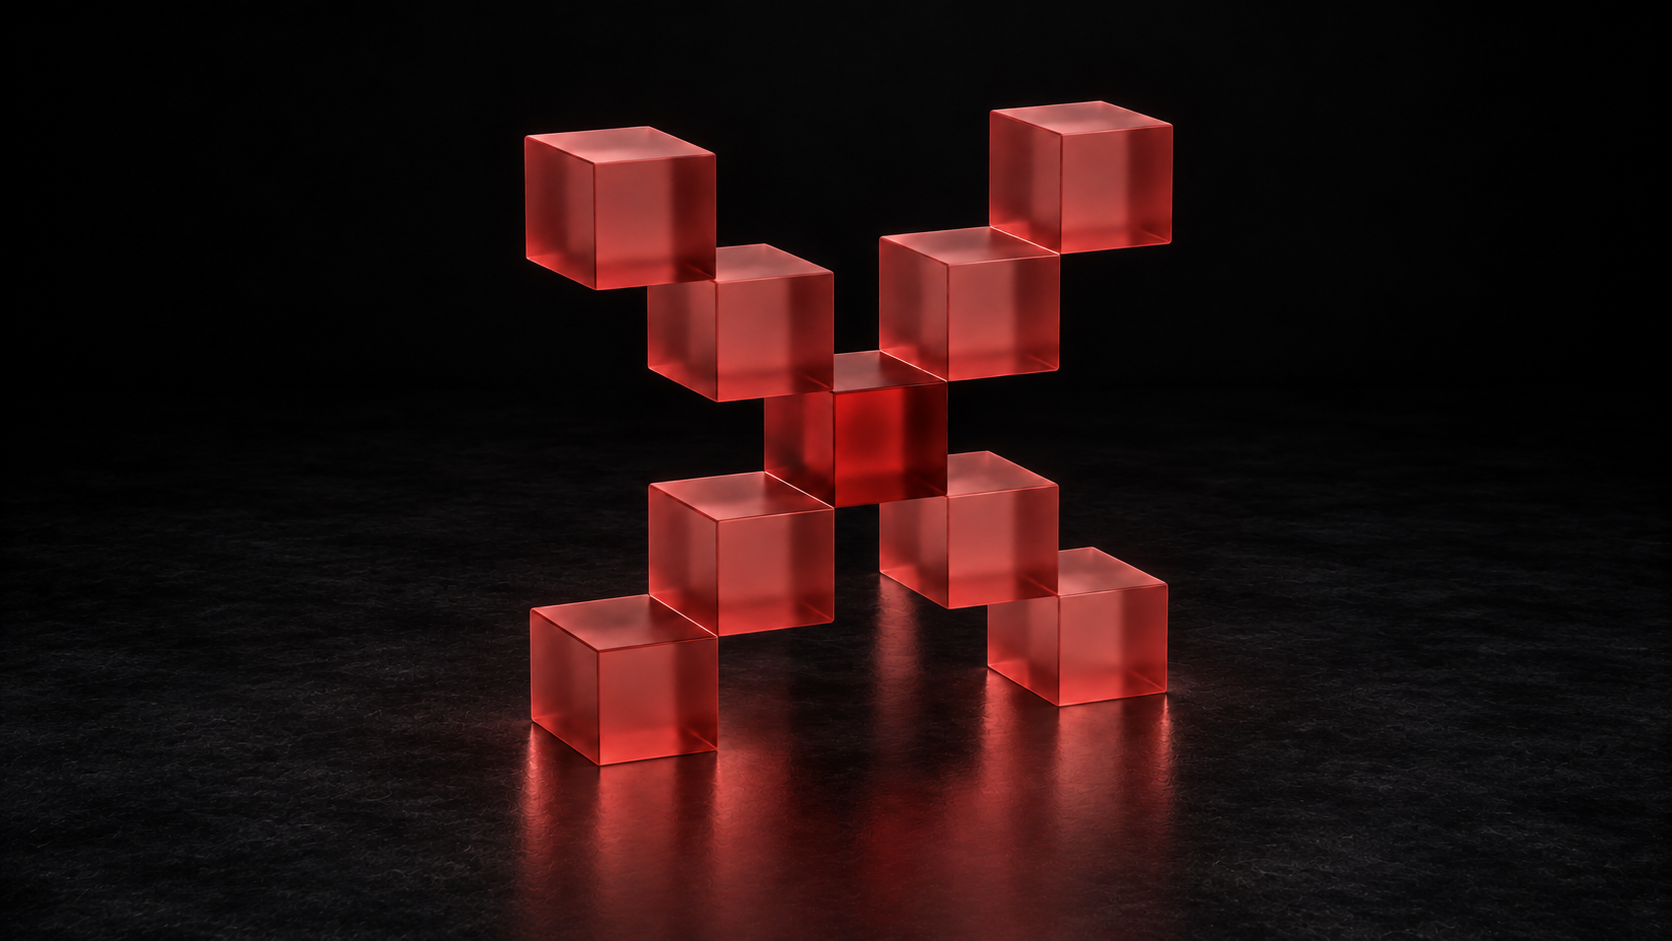
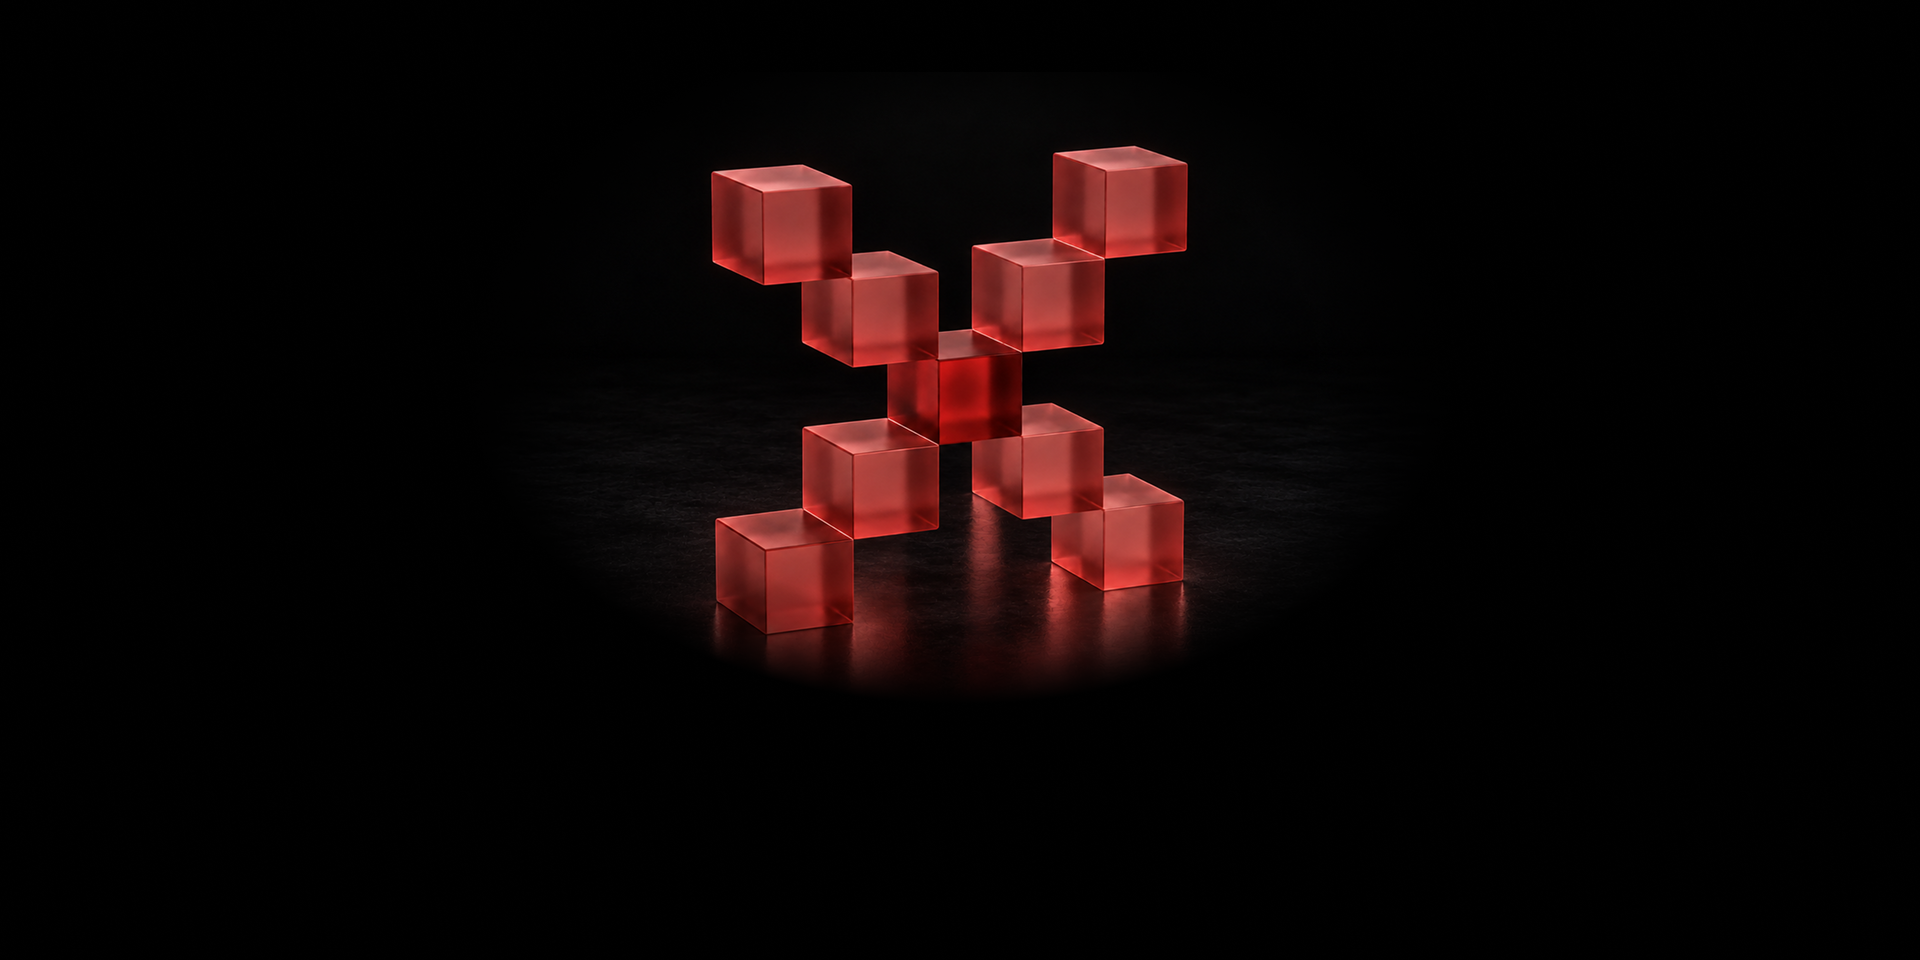
Update popup result backgrounds and responsive section layouts

diff --git a/src/scss/components/_popup-result.scss b/src/scss/components/_popup-result.scss
@@ -1,6 +1,7 @@
 @use "../abstracts/variables" as *;
 
 .popup {
+
     .form[hidden],
     .popup-result[hidden] {
         display: none;
@@ -29,176 +30,61 @@
 .popup-result {
     position: absolute;
     inset: 0;
-    min-height: 54rem;
     overflow: hidden;
     background-color: $black;
     color: $white;
 
+    // .popup-result__background
     &__background {
         position: absolute;
         inset: 0;
         pointer-events: none;
 
         picture,
-        picture img {
+        img {
             display: block;
             width: 100%;
             height: 100%;
-        }
-
-        picture img {
-            object-fit: fill;
-            max-width: none;
-        }
-
-        &::after {
-            content: '';
-            position: absolute;
-            inset: 0;
-            background: radial-gradient(ellipse 39.6% 35% at 50% 33.75%, transparent 67.67%, $black 100%);
+            object-fit: cover;
+            object-position: center;
         }
     }
 
-    &__tablet-overlay {
-        display: none;
-    }
-
+    // .popup-result__content
     &__content {
-        position: absolute;
-        inset-inline: 1.6rem;
-        bottom: 12rem;
+        padding-bottom: 12rem;
         display: flex;
         flex-direction: column;
         align-items: center;
-        gap: 4rem;
         text-align: center;
-        outline: none;
+        justify-content: flex-end;
+        height: 100%;
+        position: relative;
+        z-index: 1;
+
+        @media (max-width:1280px) {
+            padding-bottom: 8rem;
+        }
+
+        @media (max-width:1024px) {
+            padding-bottom: 24rem;
+        }
+
+        @media (max-width:767px) {
+            padding-bottom: 12rem;
+        }
 
         p {
             color: $white-60;
-            margin-top: -2.4rem;
-        }
-    }
-
-    &--error &__background {
-        picture img {
-            position: absolute;
-            width: 63.95%;
-            height: 71.98%;
-            top: 7.5%;
-            left: 16.99%;
+            margin-top: 1.6rem;
         }
 
-        &::after {
-            background: radial-gradient(ellipse 28.72% 38.96% at 50% 38.28%, transparent 65.24%, $black 90%);
-        }
-    }
+        .arrow-btn {
+            margin-top: 4rem;
 
-    @media (max-width:1280px) {
-        &__content {
-            bottom: 8rem;
-            gap: 3rem;
-
-            p {
-                margin-top: -1.4rem;
-            }
-        }
-
-        &__background::after {
-            background: radial-gradient(ellipse 38.67% 30.66% at 50% 30.88%, transparent 65%, $black 100%);
-        }
-
-        &--error &__content {
-            gap: 4rem;
-        }
-
-        &--error &__background {
-            picture img {
-                width: 60.94%;
-                height: 65.82%;
-                top: 9.9%;
-                left: 19.53%;
-            }
-
-            &::after {
-                background: radial-gradient(ellipse 31.02% 31.48% at 50% 42.05%, transparent 77.59%, $black 100%);
+            @media (max-width:1280px) {
+                margin-top: 3rem;
             }
         }
     }
-
-    @media (max-width:1024px) {
-        &__content {
-            bottom: 23.4375%;
-        }
-
-        &__tablet-overlay {
-            position: absolute;
-            inset: 0;
-            display: block;
-            width: 100%;
-            height: 100%;
-        }
-
-        &__background::after {
-            background: radial-gradient(ellipse 75.64% 33.84% at 50% 24.85%, transparent 75%, $black 100%);
-        }
-
-        &--error &__content {
-            gap: 3rem;
-        }
-
-        &--error &__background {
-            picture img {
-                width: 100%;
-                height: 100%;
-                top: -9.39%;
-                left: 0;
-            }
-
-            &::after {
-                background: radial-gradient(ellipse 58.79% 45.26% at 50% 24.85%, transparent 69.76%, $black 100%);
-            }
-        }
-    }
-
-    @media (max-width:767px) {
-        &__content {
-            bottom: 18.75%;
-        }
-
-        &__tablet-overlay {
-            display: none;
-        }
-
-        &__background::after {
-            background: radial-gradient(ellipse 69.05% 30.38% at 50% 24.85%, transparent 70.7%, $black 100%);
-        }
-
-        &--error &__background {
-            picture img {
-                width: 133.33%;
-                left: -16.67%;
-                top: -10.49%;
-            }
-
-            &::after {
-                background: radial-gradient(ellipse 153.07% 51.33% at 50% 21.41%, transparent 65%, $black 100%);
-            }
-        }
-    }
-}
-
-// Temporary local outcome chooser; removed with features/popup-demo.js.
-.popup-demo {
-    position: fixed;
-    z-index: 4;
-    top: 50%;
-    left: 50%;
-    transform: translate(-50%, -50%);
-    display: flex;
-    gap: 1.2rem;
-    padding: 2rem;
-    border-radius: 2rem;
-    background: $white;
-    box-shadow: 0 1rem 6rem $black-20;
 }

diff --git a/src/scss/sections/_section.scss b/src/scss/sections/_section.scss
@@ -526,19 +526,35 @@
         --deals-gap: 1.6rem;
     }
 
-    .deals-controls {
+    // .deals-controls
+    &-controls {
         z-index: 2;
         position: absolute;
         inset: auto 0 0;
     }
 
-    .deals-viewport {
+    // .deals-viewport
+    &-viewport {
         overflow: hidden;
         padding-top: 0.2rem;
         touch-action: pan-y pinch-zoom;
+        width: 100vw;
+        padding-inline: 4rem;
+        margin-left: -4rem;
+
+        @media (max-width:1280px) {
+            padding-inline: 3rem;
+            margin-left: -3rem;
+        }
+
+        @media (max-width:1024px) {
+            padding-inline: 1.6rem;
+            margin-left: -1.6rem;
+        }
     }
 
-    .deals-track {
+    // .deals-track
+    &-track {
         display: flex;
         align-items: flex-start;
         gap: var(--deals-gap);
@@ -841,9 +857,16 @@
             height: 100vh;
             // height: 100svh;
             min-height: 100vh;
-
             // min-height: 100svh;
+            width: 100vw;
+            margin-left: -4rem;
+
+            @media (max-width:1280px) {
+                margin-left: -3rem;
+            }
+
             @media (max-width:1024px) {
+                margin-left: -1.6rem;
                 margin-top: -5vh;
                 // margin-top: -5svh;
             }
@@ -893,8 +916,8 @@
             img {
                 @media (max-width:1024px) {
                     max-width: none;
-                    width: calc(100% + 10rem);
-                    margin-left: -5rem;
+                    width: calc(100% + 6rem);
+                    margin-left: -3rem;
                 }
             }
         }

diff --git a/template-parts/popups/result.php b/template-parts/popups/result.php
@@ -1,12 +1,10 @@
 <div class="popup-result popup-result--success" data-popup-result="success" hidden inert>
     <div class="popup-result__background" aria-hidden="true">
         <picture>
-            <source media="(max-width: 767px)" srcset="<?php echo esc_url(frame_asset('img/popup-success-mobile.png')); ?>">
-            <source media="(max-width: 1024px)" srcset="<?php echo esc_url(frame_asset('img/popup-success-tablet.png')); ?>">
-            <source media="(max-width: 1280px)" srcset="<?php echo esc_url(frame_asset('img/popup-success-compact.png')); ?>">
+            <source media="(max-width: 767px)" srcset="<?php echo esc_url(frame_asset('img/popup-success-360.png')); ?>">
+            <source media="(max-width: 1024px)" srcset="<?php echo esc_url(frame_asset('img/popup-success-mobile.png')); ?>">
             <img src="<?php echo esc_url(frame_asset('img/popup-success-desktop.png')); ?>" alt="">
         </picture>
-        <img class="popup-result__tablet-overlay" src="<?php echo esc_url(frame_asset('img/popup-success-tablet-overlay.png')); ?>" alt="">
     </div>
     <div class="popup-result__content" role="status" tabindex="-1">
         <h3 class="h4">Заявка успешно<br>отправлена</h3>
@@ -17,6 +15,7 @@
 <div class="popup-result popup-result--error" data-popup-result="error" hidden inert>
     <div class="popup-result__background" aria-hidden="true">
         <picture>
+            <source media="(max-width: 767px)" srcset="<?php echo esc_url(frame_asset('img/popup-error-360.png')); ?>">
             <source media="(max-width: 1024px)" srcset="<?php echo esc_url(frame_asset('img/popup-error-mobile.png')); ?>">
             <img src="<?php echo esc_url(frame_asset('img/popup-error-desktop.png')); ?>" alt="">
         </picture>
